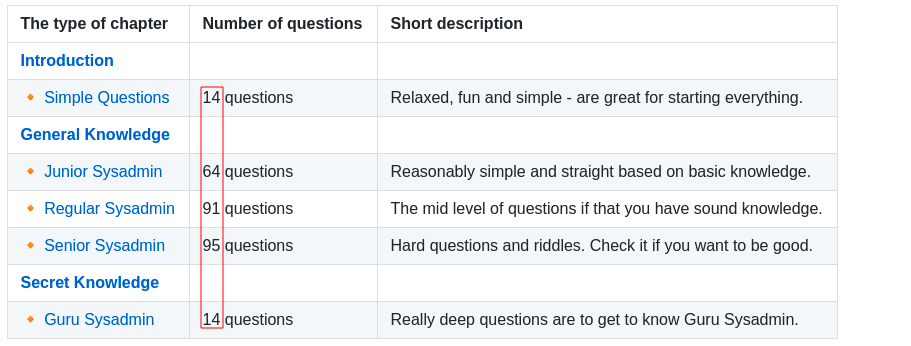
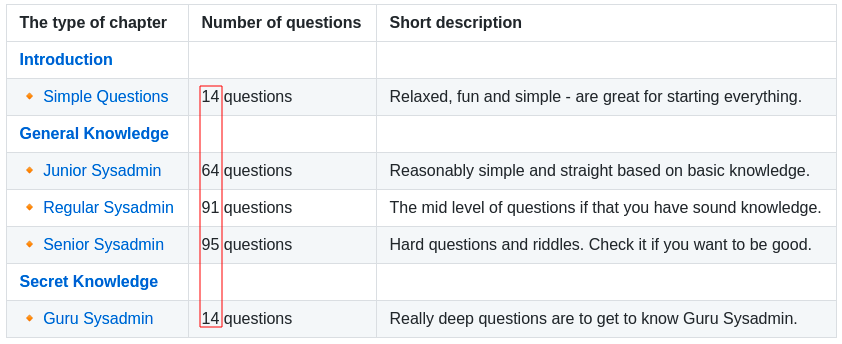
fixed previews size; updated CONTRIBUTING.md - signed-off-by: trimstray <trimstray@gmail.com>

diff --git a/CONTRIBUTING.md b/CONTRIBUTING.md
@@ -17,28 +17,36 @@ Remember about this rules:
 
 ### Remove `***` from question without answer
 
-<p align="center">
+Example:
+
+<p align="left">
     <img src="https://github.com/trimstray/test-your-sysadmin-skills/blob/master/doc/img/question_marker_01.png"
         alt="Master">
 </p>
 
 ### Remove `***` from question without answer
 
-<p align="center">
+Example:
+
+<p align="left">
     <img src="https://github.com/trimstray/test-your-sysadmin-skills/blob/master/doc/img/sub-chapter_questions_counter_01.png"
         alt="Master">
 </p>
 
 ### Update TOC counters
 
-<p align="center">
+Example:
+
+<p align="left">
     <img src="https://github.com/trimstray/test-your-sysadmin-skills/blob/master/doc/img/toc_questions_counter_01.png"
         alt="Master">
 </p>
 
 ### Update questions counter (for all Q/A)
 
-<p align="center">
+Example:
+
+<p align="left">
     <img src="https://github.com/trimstray/test-your-sysadmin-skills/blob/master/doc/img/questions_counter_01.png"
         alt="Master">
 </p>
